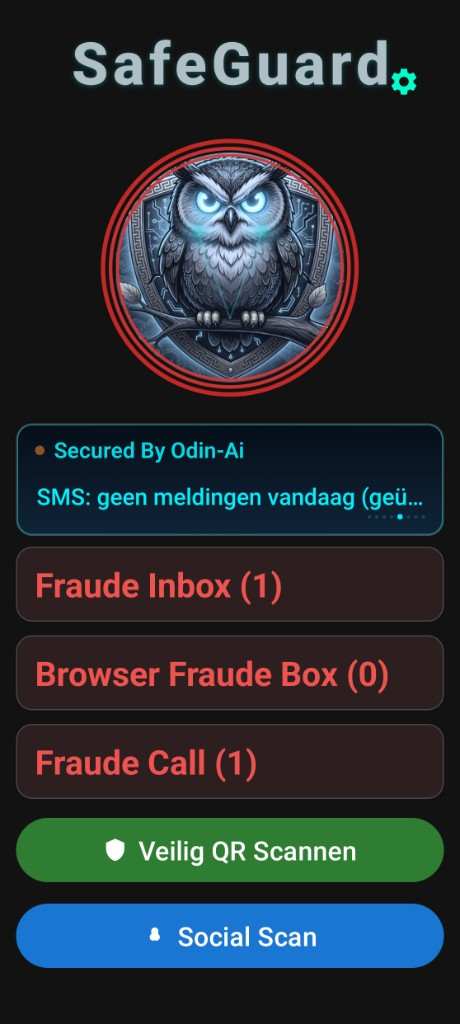
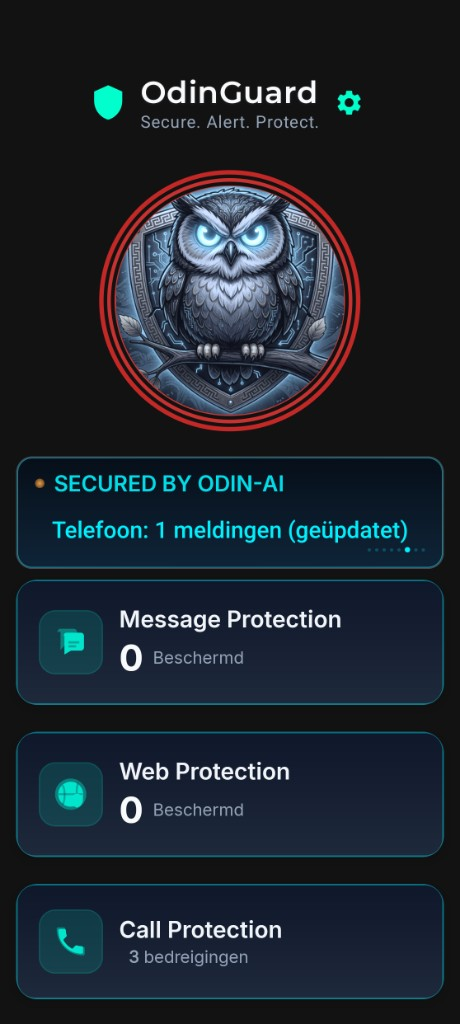
Update phone mockup first screenshot to OdinGuard dashboard.
Replace carousel slide 01 with the new OdinGuard app screenshot and refresh cache bust.

diff --git a/index.html b/index.html
@@ -1193,7 +1193,7 @@
         });
 
         const SCREENSHOT_COUNT = 23;
-        const SCREENSHOT_CACHE_BUST = '20260614';
+        const SCREENSHOT_CACHE_BUST = '20260617';
         const screenshots = Array.from({ length: SCREENSHOT_COUNT }, (_, i) =>
             `assets/screenshots/${String(i + 1).padStart(2, '0')}.png?v=${SCREENSHOT_CACHE_BUST}`
         );